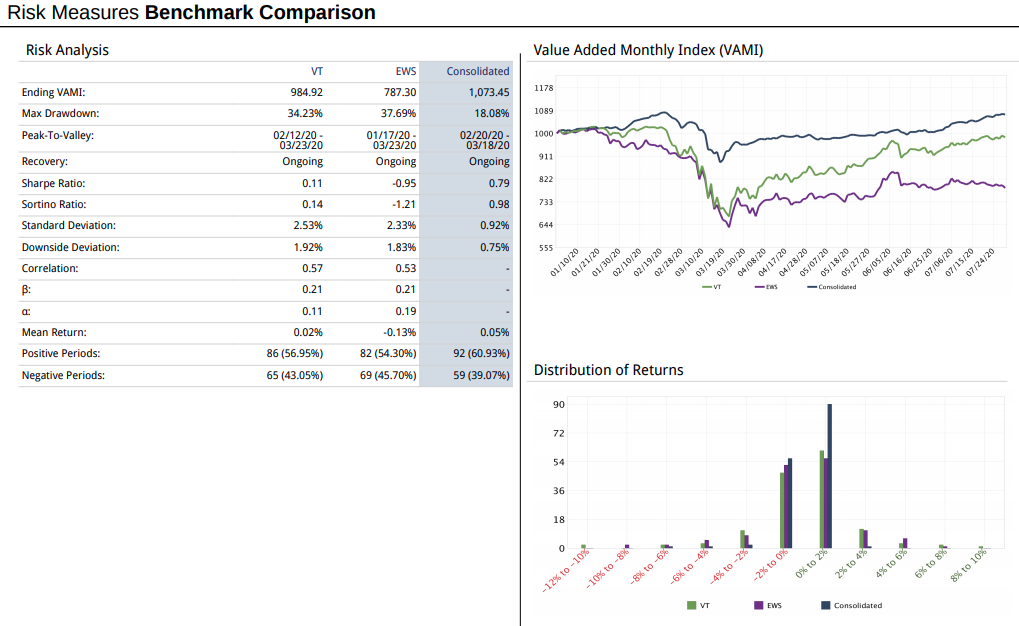
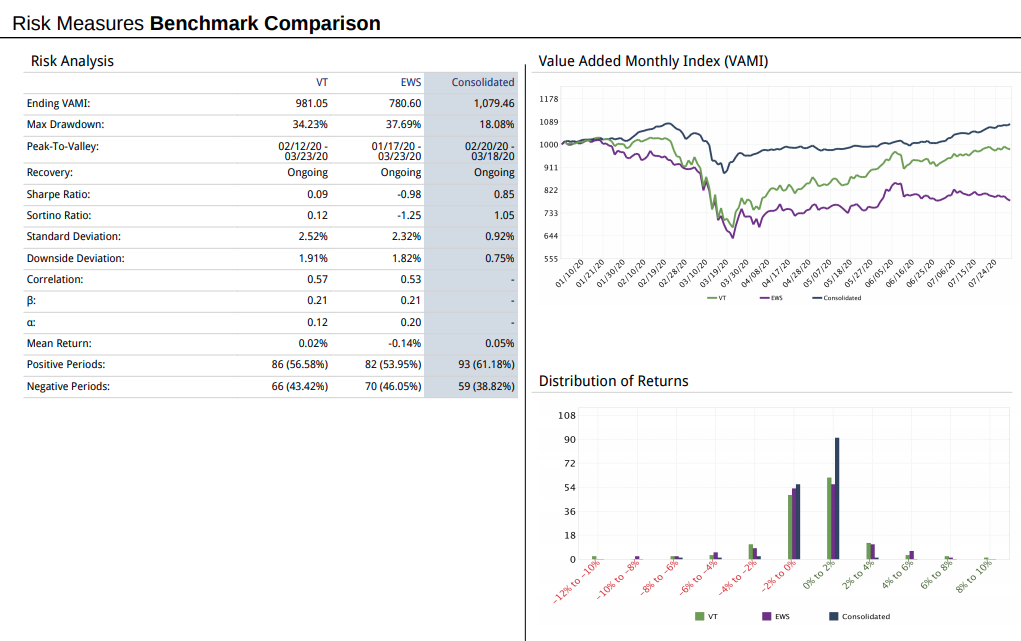
add perf

Changed region(s): [[0.0, 0.0, 1.0, 1.0], [0.9735, 0.3035, 1.0, 0.3339], [0.5476, 0.7588, 0.578, 0.7891]]

diff --git a/portfolio/portfolio/index.html b/portfolio/portfolio/index.html
@@ -271,7 +271,7 @@
   
   <span class="middot-divider"></span>
   <span class="article-reading-time">
-    5 min read
+    6 min read
   </span>
   
 
@@ -426,6 +426,7 @@
 <li>April 2020 (+1, monthly change +3.3%) - Positive month. Volatility targeting formally built into Jarvis. Rebound is slower than benchmarks but upward trajectory is smoother.</li>
 <li>May 2020 (+1, monthly change +0.34%) - Positive month. Hedges to reach volatility target of 15% completely removed as portfolio volatility dwindles. Far out of the money put options (30% below market price) that costs around 0.1% on a monthly basis is integrated into the portfolio. Changed benchmark of SnP 500 to EWS (Singapore etf) as I think it&rsquo;s a better benchmark given that&rsquo;s my home country.</li>
 <li>June 2020 (+1, monthly change +2.07%) - Positive month. Added covered call strategy (potentially additional 6% inversely correlated returns stream to market) Tweaked the system in such a way that if put options are cheap enough to be purchased, use 15% volatility target. Else use 10% volatility target.</li>
+<li>July 2020 (+1, monthly change +6.69%) - Positive record-breaking month. Developed a full risk parity model (equal risk across asset classes) in incubation period. To be deployed after Aug 21. Signals are generated programmatically daily and to be deployed manually. Automated deployment infrastructure is still in the works.</li>
 </ul>
 
 <h4 id="portfolio-in-blue-benchmarks-in-other-colours">Portfolio in blue. Benchmarks in other colours</h4>

diff --git a/post/mapreduce-in-java/index.html b/post/mapreduce-in-java/index.html
@@ -416,9 +416,9 @@ public static void main(String[] args) throws Exception {
     
     <li><a href="/post/volatility-targeting/">Integrating volatility targeting into Jarvis, my expert advisor</a></li>
     
-    <li><a href="/post/hidden_markov_model/">Regime detection through hidden markov model</a></li>
-    
     <li><a href="/project/hidden_markov_model/">Regime detection through hidden markov model</a></li>
+    
+    <li><a href="/post/hidden_markov_model/">Regime detection through hidden markov model</a></li>
     
     <li><a href="/post/embedding-d3-interactive-charts-part2/">Embedding D3 interactive charts part 2</a></li>
     

diff --git a/post/volatility-targeting/index.html b/post/volatility-targeting/index.html
@@ -644,9 +644,9 @@ if(abs(hedge - current_hedge_value) &gt; 3000){
     
     <li><a href="/post/mapreduce-in-java/">Mapreduce using Java</a></li>
     
-    <li><a href="/post/hidden_markov_model/">Regime detection through hidden markov model</a></li>
-    
     <li><a href="/project/hidden_markov_model/">Regime detection through hidden markov model</a></li>
+    
+    <li><a href="/post/hidden_markov_model/">Regime detection through hidden markov model</a></li>
     
     <li><a href="/post/embedding-d3-interactive-charts-part2/">Embedding D3 interactive charts part 2</a></li>
     

diff --git a/post/volatility-targeting-could-potentially-increase-risk-adjusted-returns-for-any-quant-strategies/index.html b/post/volatility-targeting-could-potentially-increase-risk-adjusted-returns-for-any-quant-strategies/index.html
@@ -531,9 +531,9 @@
     
     <li><a href="/post/mapreduce-in-java/">Mapreduce using Java</a></li>
     
-    <li><a href="/post/hidden_markov_model/">Regime detection through hidden markov model</a></li>
-    
     <li><a href="/project/hidden_markov_model/">Regime detection through hidden markov model</a></li>
+    
+    <li><a href="/post/hidden_markov_model/">Regime detection through hidden markov model</a></li>
     
   </ul>
 </div>
